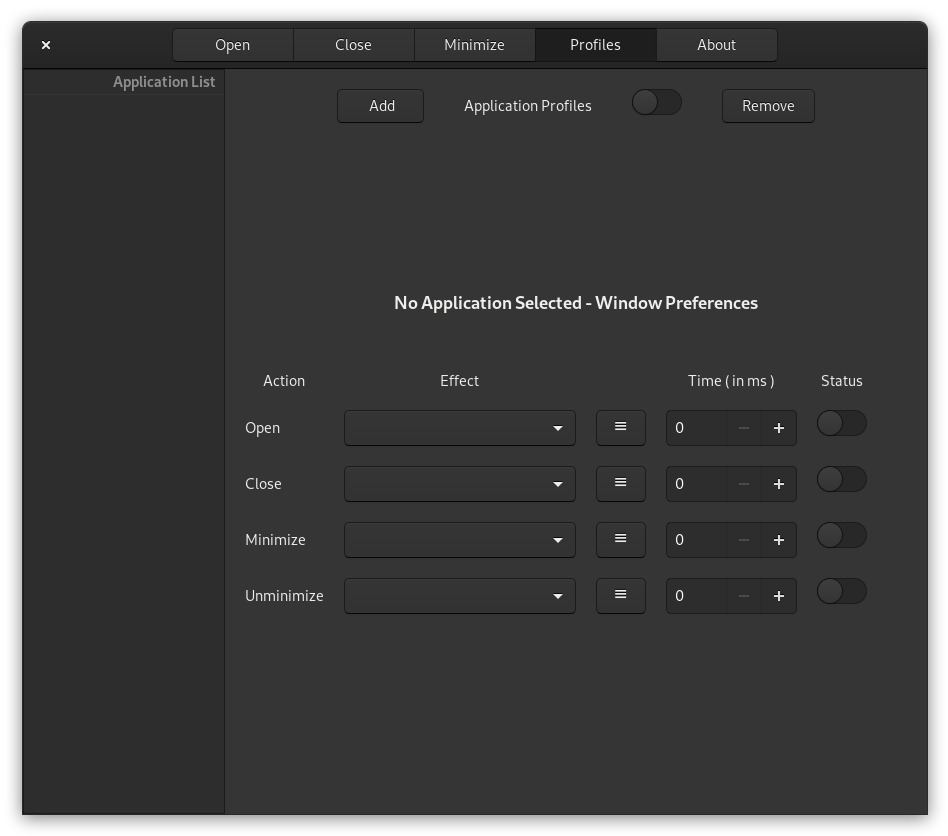
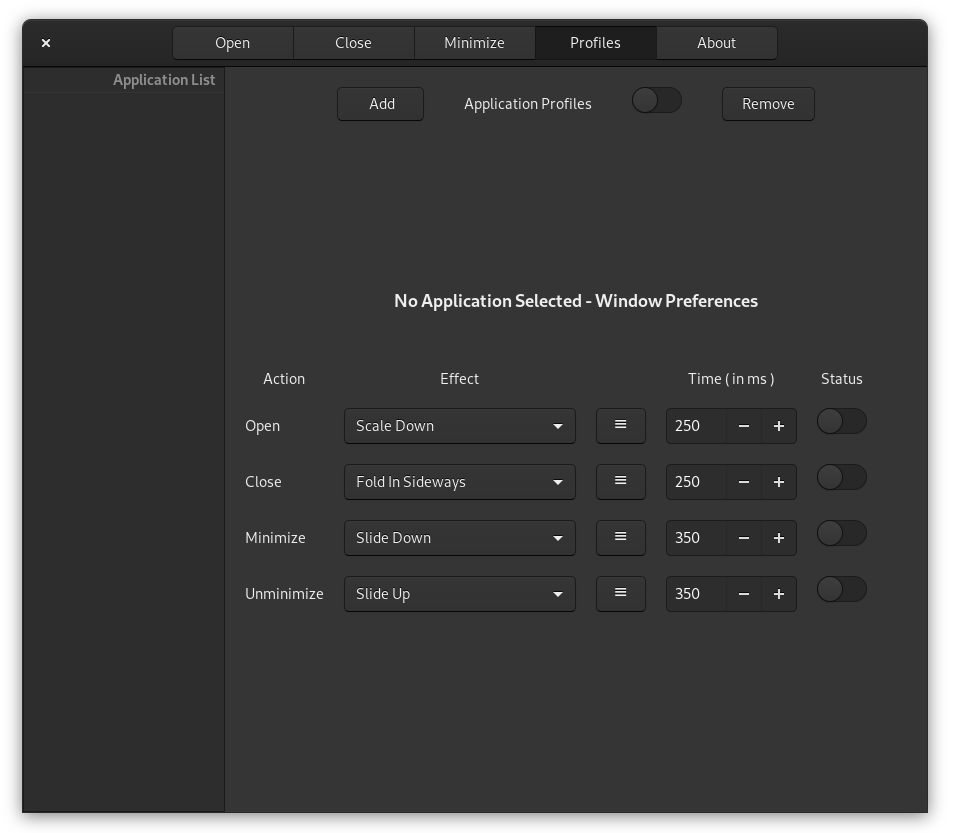
Improved Preferences UI and updated version

diff --git a/animation-tweaks@Selenium-H/prefs.js b/animation-tweaks@Selenium-H/prefs.js
@@ -43,7 +43,7 @@ function buildPrefsWidget() {
 
 function reloadExtension () {
 
-    (settings.get_boolean("reload-signal")) ? settings.set_boolean("reload-signal", false) : settings.set_boolean("reload-signal", true);
+  (settings.get_boolean("reload-signal")) ? settings.set_boolean("reload-signal", false) : settings.set_boolean("reload-signal", true);
     
 }
 
@@ -52,7 +52,6 @@ function reloadApplicationProfiles() {
   (settings.get_boolean("reload-profiles-signal")) ? settings.set_boolean("reload-profiles-signal", false) : settings.set_boolean("reload-profiles-signal", true);
     
 }
-
 
 const AboutPage =  new GObject.Class({
 
@@ -122,8 +121,6 @@ const AboutPage =  new GObject.Class({
     settings.reset("unminimizing-effect");
         
     settings.reset("use-application-profiles");
-    settings.reset("application-list");
-    settings.reset("name-list");
     settings.reset('wayland');
     
     reloadExtension();
@@ -276,6 +273,7 @@ const EffectsList = new GObject.Class({
        effectsCombo.append(this.effectsList[cIndex+1],this.effectsList[cIndex+1]);
        cIndex = this.effectsList.indexOf('|',cIndex+1);
      } 
+     
   },
 
   modifyEffectForWindowAction: function(appIndex,eStr) {
@@ -343,21 +341,21 @@ const EffectsList = new GObject.Class({
   
   setEffectTime: function(value,eStr) {
 
-   let cIndex = 0;
-   let totalTime = this.getTotalTimeOf(eStr); 
+    let cIndex = 0;
+    let totalTime = this.getTotalTimeOf(eStr); 
 
-   if(totalTime == 0) {
-     for (cIndex = 8;cIndex<eStr.length;cIndex=cIndex+8) {
-       eStr[cIndex]="0.001";
-     }
-     totalTime = parseInt(eStr[2]);
-   }
+    if(totalTime == 0) {
+      for (cIndex = 8;cIndex<eStr.length;cIndex=cIndex+8) {
+        eStr[cIndex]="0.001";
+      }
+      totalTime = parseInt(eStr[2]);
+    }
 
-   for (cIndex = 8;cIndex<eStr.length;cIndex=cIndex+8) {
-     eStr[cIndex]= ((parseFloat(eStr[cIndex])*value)/totalTime).toPrecision(3).toString();
-   }  
+    for (cIndex = 8;cIndex<eStr.length;cIndex=cIndex+8) {
+      eStr[cIndex]= ((parseFloat(eStr[cIndex])*value)/totalTime).toPrecision(3).toString();
+    }  
   
-   return eStr;
+    return eStr;
 
   },
   
@@ -377,8 +375,7 @@ const  EffectsTweaks =  new GObject.Class({
     
     this.appIndex = appIndex;
     this.appProfile = appProfile;
-    this.eStr = this.appProfile.getEffectAt(this.appIndex);
-    
+    this.eStr = (this.appIndex == -1)? this.appProfile.getEffectAt(0):this.appProfile.getEffectAt(this.appIndex);
     
     this.gridWin.attach(new Gtk.Label({xalign:1,use_markup:true,label:"<big><b>"+_("Any  Changes  done  here  are  Applied  immediately")+"</b></big>",
                                        halign: Gtk.Align.CENTER}),0,0,3,1);
@@ -760,6 +757,10 @@ const PrefsWindowForProfiles = new GObject.Class({
       (settings.get_boolean("reload-profiles-signal")) ? settings.set_boolean("reload-profiles-signal", false) : settings.set_boolean("reload-profiles-signal", true);
     });
     
+    settings.connect("changed::"+KEY, () => {
+      settingSwitch.set_active(settings.get_boolean(KEY));
+    });
+
     this.attachLabel(KEY,0,this.profilesOptionTopGrid);
     this.profilesOptionTopGrid.attach(box  ,2   ,0    ,1   ,1);
      
@@ -854,7 +855,6 @@ const PrefsWindowForProfiles = new GObject.Class({
     this.profilesOptionTopGrid = new Gtk.Grid({ column_spacing: 40, halign: Gtk.Align.CENTER, margin: 10, row_spacing: 10 ,border_width: 10});
     this.gridWin    = new Gtk.Grid({ column_spacing: 20, halign: Gtk.Align.CENTER, margin: 10, row_spacing: 20 ,border_width: 10});
 
-
     this.profilesOptionTopGrid.attach(addButton,0,0,1,1);
     this.profilesOptionTopGrid.attach(delButton,3,0,1,1);
     
@@ -883,8 +883,8 @@ const PrefsWindowForProfiles = new GObject.Class({
   refreshList: function()  {
   
     this._store.clear();
-    let appsList = settings.get_strv('application-list');
-    let nameList = settings.get_strv('name-list');
+    let appsList = settings.get_strv("application-list");
+    let nameList = settings.get_strv("name-list");
 
     for (let i = 0; i < nameList.length; i++) {
       let appInfo = Gio.DesktopAppInfo.new(appsList[i]);
@@ -898,24 +898,24 @@ const PrefsWindowForProfiles = new GObject.Class({
       }
     }
     
-    settings.set_strv('application-list',appsList);
-    settings.set_strv('name-list', nameList);
+    settings.set_strv("application-list",appsList);
+    settings.set_strv("name-list", nameList);
     
   },
 
   removeApp: function() {
   
     let [any, model, iter] = this.treeView.get_selection().get_selected();
-    let appsList = settings.get_strv('application-list');
-    let nameList = settings.get_strv('name-list');
+    let appsList = settings.get_strv("application-list");
+    let nameList = settings.get_strv("name-list");
 
     if (any) {
       let indx,appInfo = this._store.get_value(iter, 0); 
       appsList.splice((indx=appsList.indexOf(appInfo.get_id())),1);
       nameList.splice(indx,1);
       this.removeAppEffectsAt(indx);
-      settings.set_strv('application-list',appsList);
-      settings.set_strv('name-list', nameList);
+      settings.set_strv("application-list",appsList);
+      settings.set_strv("name-list", nameList);
       this._store.remove(iter);
     }
 
@@ -926,6 +926,11 @@ const PrefsWindowForProfiles = new GObject.Class({
     if(index >= 0 )  {
       index++;
     }
+    
+    this.appNormalOpenPrefs.appIndex--;
+    this.appNormalClosePrefs.appIndex--;
+    this.appNormalMinimizePrefs.appIndex--;
+    this.appNormalUnminimizePrefs.appIndex--;
     
     this.appNormalOpenPrefs.appProfile.removeEffectForWindowAction(index);  
     this.appNormalClosePrefs.appProfile.removeEffectForWindowAction(index);  
@@ -963,6 +968,7 @@ const AnimationSettingsForItem = new GObject.Class({
   Name: 'AnimationSettingsForItem',
 
   _init(itemType,windowType,action,grid,posY,topLevel) {
+  
     
     this.action          =  action;
     this.itemType        =  itemType;
@@ -1075,9 +1081,9 @@ const AnimationSettingsForItem = new GObject.Class({
     this.appProfile.reloadList(this.windowType+"-"+this.action);
     this.appIndex = appIndex;
     
-    this.eStr = this.appProfile.getEffectAt(this.appIndex);
-    
-    this.prefsSwitch.active = (this.eStr[0]=='T')? true:false;
+    this.eStr = (this.appIndex == -1)? this.appProfile.getEffectAt(0) : this.appProfile.getEffectAt(this.appIndex);
+
+    this.prefsSwitch.active = (this.eStr[0]=="T")? true:false;
     this.prefsCombo.set_active(this.allEffectsList.getIndexOf(this.eStr[1]));
     this.timeSetting.set_value(this.allEffectsList.getTotalTimeOf(this.eStr));
     
@@ -1095,7 +1101,6 @@ const AnimationSettingsForItemProfile = new GObject.Class({
   _init(itemType,windowType,action,grid,posY,topLevel) {
   
     this.parent(itemType,windowType,action,grid,posY,topLevel);
-    
     this.prefsLabel.label = this.action.charAt(0).toUpperCase()+this.action.slice(1)
     this.updateValues(-1);
   
